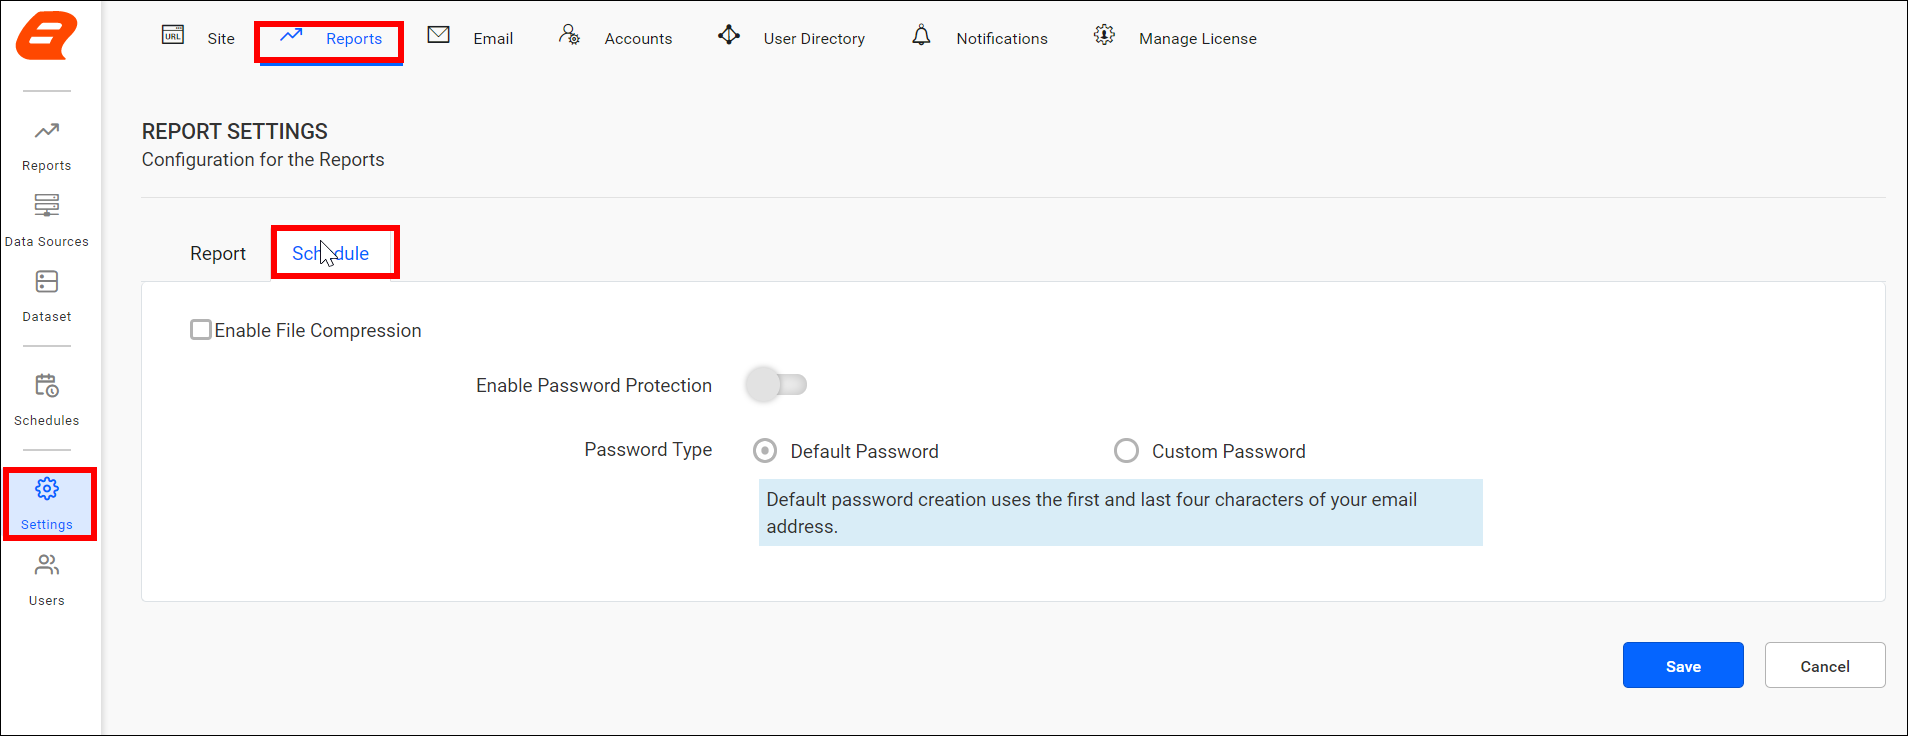
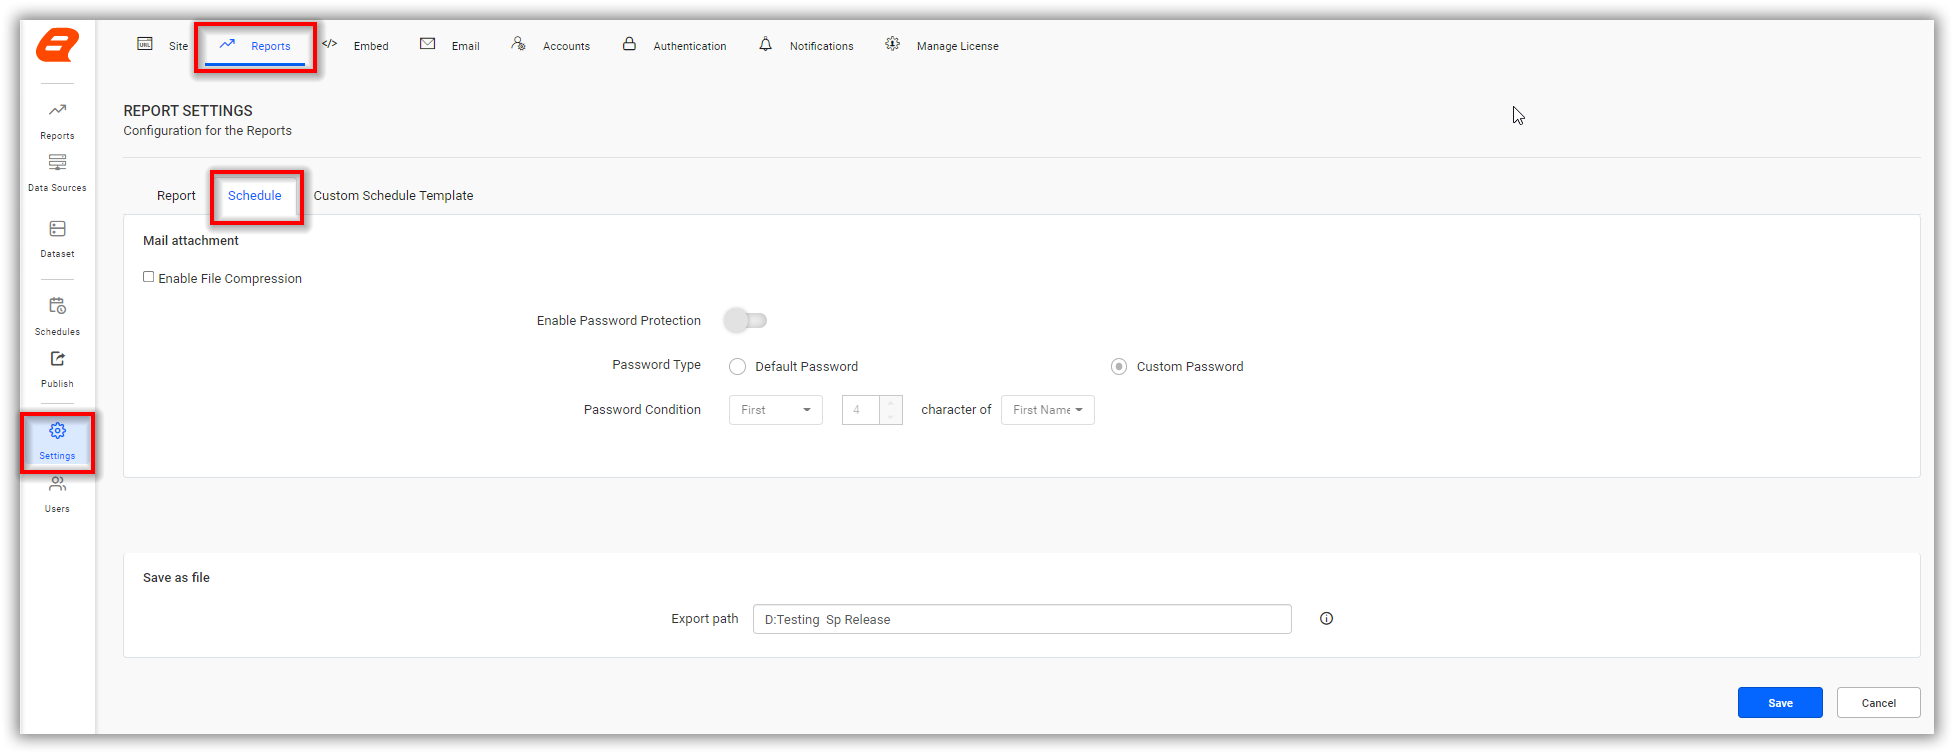
documentation(UMP-15977): network path in schedular to dev

diff --git a/docs/designer-guide/manage-schedule/manage-reports-schedule.md b/docs/designer-guide/manage-schedule/manage-reports-schedule.md
@@ -157,7 +157,7 @@ By selecting the variable the scheduled user variable is assigned directly from 
 
 * Exported reports can be sent to individual users or groups by checking **Email attachment** option.
 
-* Also the exported reports can be sent to external recipients by providing the `Email Id`.
+* Also the exported reports can be sent to external recipients by providing the `Email Id` and you can add multiple external recipients at a time, separate an email by a comma(,). For example [recipient1@gmail.com,recipients2@gmail.com].
 
 ![Email Attachment Checkbox](/static/assets/on-premise/images/manage-schedule/manage-report-schedules/email-attachment-checkbox.png)
 
@@ -170,9 +170,27 @@ By selecting the variable the scheduled user variable is assigned directly from 
 
 * To save the exported report, **Export Path** and **Max reports count** has to be filled.
 
-   **Export Path** - Location to save the exported report. By default, the location will be **C:\Syncfusion\Report Server\ReportServer.Web\App_Data**.
+  **Export Path** - Location to save the exported report. By default, the folder path will be **\Export** and the default root path location will be **C:\BoldServices\app_data\reporting\Jobs**.
+       * You need a required folder path, simply edit the default folder path location and set the required path location in the Export path.
+       * You need a required root path, it must be updated in [Shedule Report Setting](./../../../designer-guide/manage-schedule/schedule-report-settings/#save-as-file) Export path.
 
    **Max reports count** - Maximum exported reports count to be save in that location.
+
+   **Overwrite the Existing file** - when you enable this option, it will overwrite the existing file which is present on the exported folder location.
+
+   **Notify Recipients** - When you enable this option, it will notify the recipients.
+
+* For saving the exported file on network location, we have to provide path in UNC format as like below,`\\172.34.203.23\test\Export`
+
+    **Root directory path**: `\\172.34.203.23\test`
+
+    **Relative path**: `\Export`
+
+    * Root directory path can be provided on [Shedule Report Settings](./../../../designer-guide/manage-schedule/schedule-report-settings/#save-as-file) while relative path can be provided on creating the schedules.
+
+    * If the folder test not exist, test folder will be created automatically while running the schedules.
+
+    > **Write** permission for that required root directory path folder.
 
 * When clicking the **Schedule**, the report will be scheduled in the selected recurrence.
 

diff --git a/docs/designer-guide/manage-schedule/schedule-report-settings.md b/docs/designer-guide/manage-schedule/schedule-report-settings.md
@@ -69,3 +69,11 @@ This section explain about schedule report settings to compress the exporting re
         </td>
     </tr>
 </table>
+
+## Save as file
+
+1. Click on the `Settings` option in Report Server left-side panel and navigate to `Reports` tab.
+2. Switch to `Schedule` tab as in following image
+ ![Schedule report settings tab in Report Server](/static/assets/on-premise/images/manage-schedule/schedule-settings/schedule-report-settings-tab.png)
+3. We have to save export path value for exporitng report into mentioned location. By default, the directory root path will be **C:\BoldServices\app_data\reporting\Jobs**.![Default Export path Settings](/static/assets/on-premise/images/manage-schedule/schedule-settings/schedule-report-settings-export-default.png)
+4. you can edit the default directory root path value which is provided on "Export path" option and click on the `Save` button to save the changes.![Required Export path Settings](/static/assets/on-premise/images/manage-schedule/schedule-settings/schedule-report-settings-export-required.png)

diff --git a/docs/designer-guide/manage-schedule/custom-schedule-report-settings.md b/docs/designer-guide/manage-schedule/custom-schedule-report-settings.md
@@ -27,4 +27,5 @@ By selecting the variable the scheduled user variable is assigned directly from 
 * {Report Name}: Scheduled report name
 * {Report Link}: Link to the scheduled report
 * {Export Format}: Export file format which is chosen the schedule
+* {Date}: Date represents when the schedule triggered
 * {Organization Name}: [Organization name](./../../../administrator-guide/custom-rebranding/#organization-name) is retrieved from the site setting
